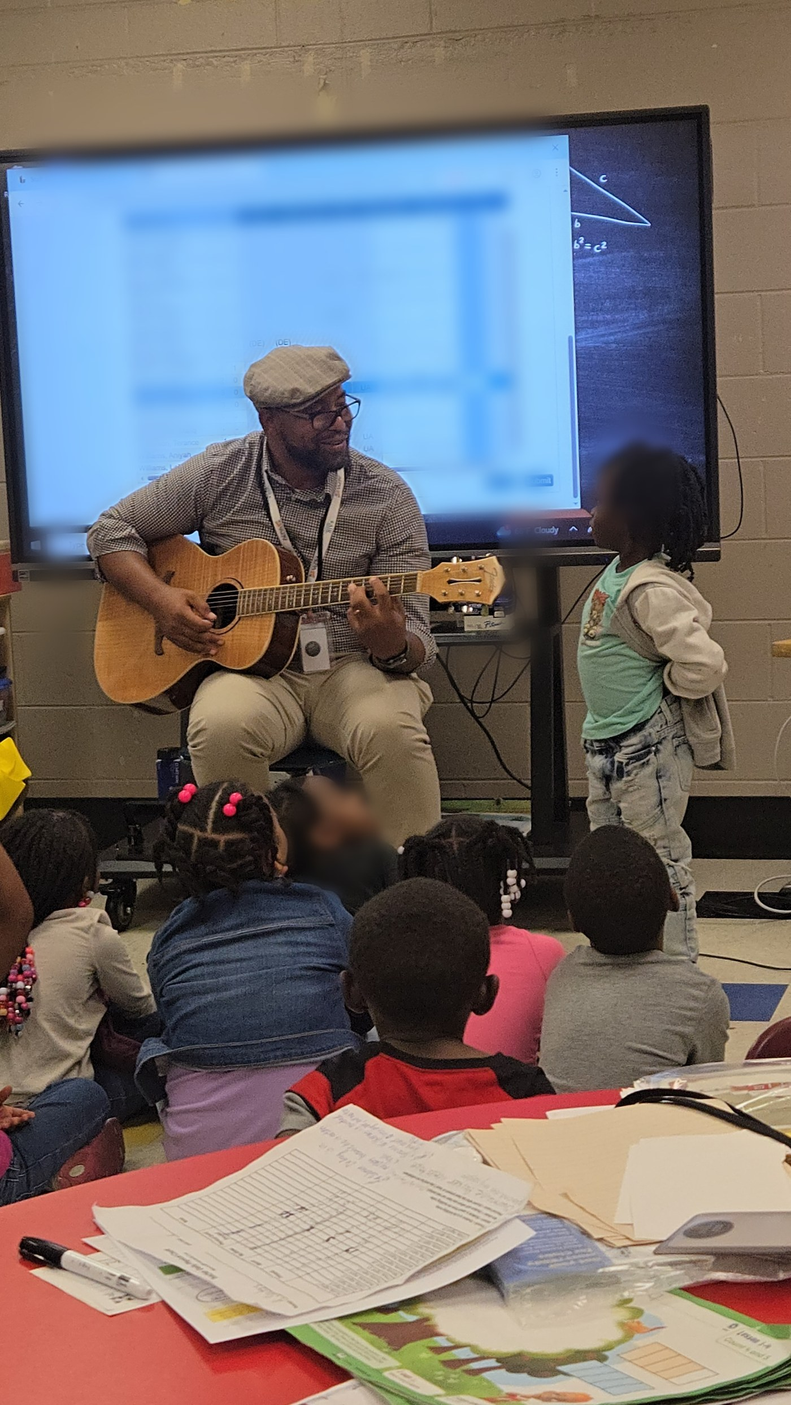
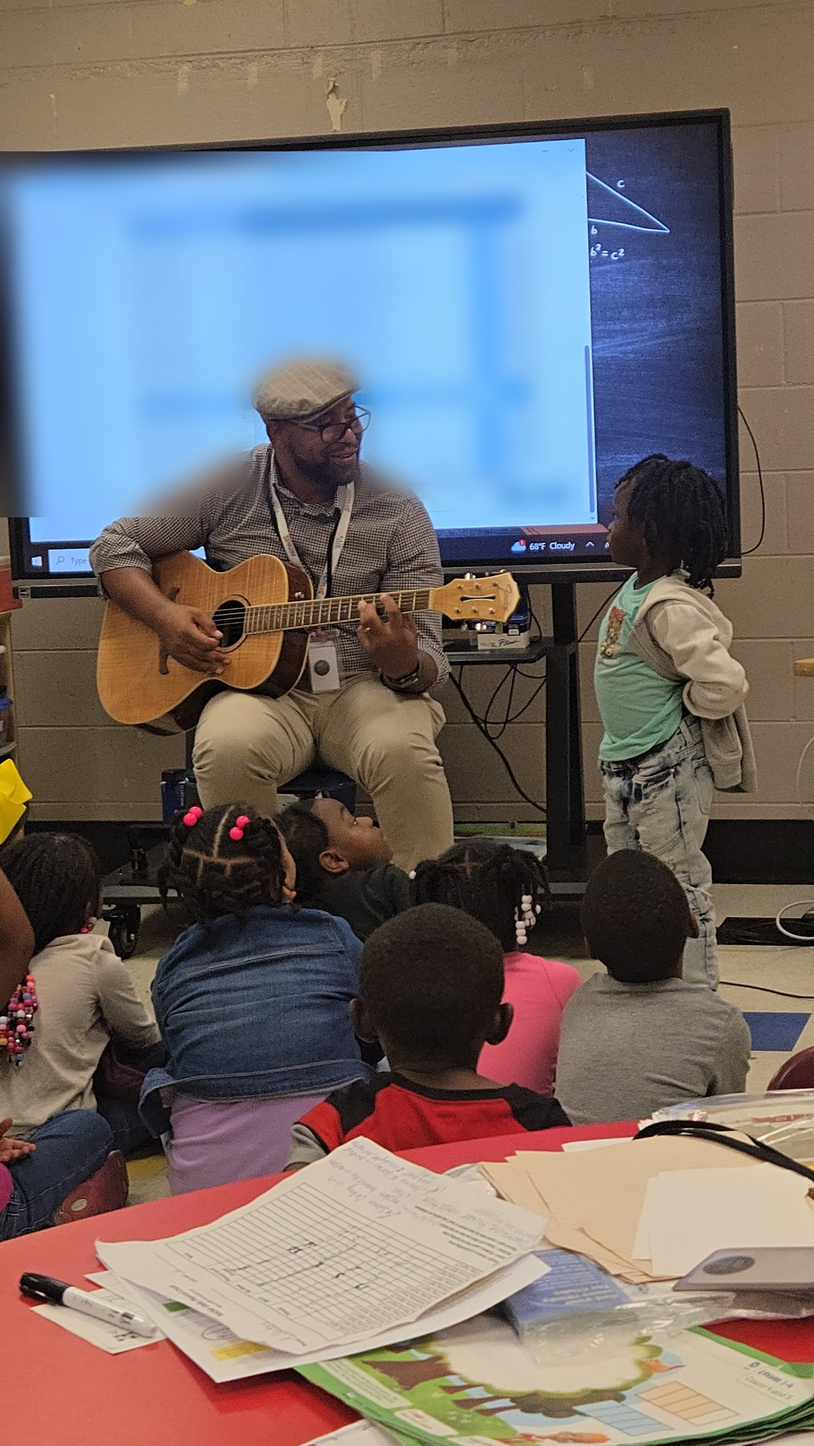
Unblur students per family permission on file; keep the records screen covered
Faces restored from the original photograph. The projected screen stays
obscured: it displayed a PowerSchool attendance grid with the full class
roster, which no media release covers. Caption updated to say exactly that.

diff --git a/index.html b/index.html
@@ -533,9 +533,10 @@
             Recognition first, always: the instrument is not a performance, it's an invitation.
           </p>
           <p class="caption" style="font-style:italic;">
-            The board behind me is blurred on purpose — my students' names live on that screen,
-            and their names are theirs. The faces of children here are softened for the same
-            reason. Dignity is the floor, including in photographs.
+            The children in these photographs appear with their families' written permission.
+            The screen behind me stays covered for a different reason — it held the class's
+            roster and records, and those belong to the children and the district, not the
+            internet. Dignity is the floor, including in photographs.
           </p>
         </div>
       </div>
